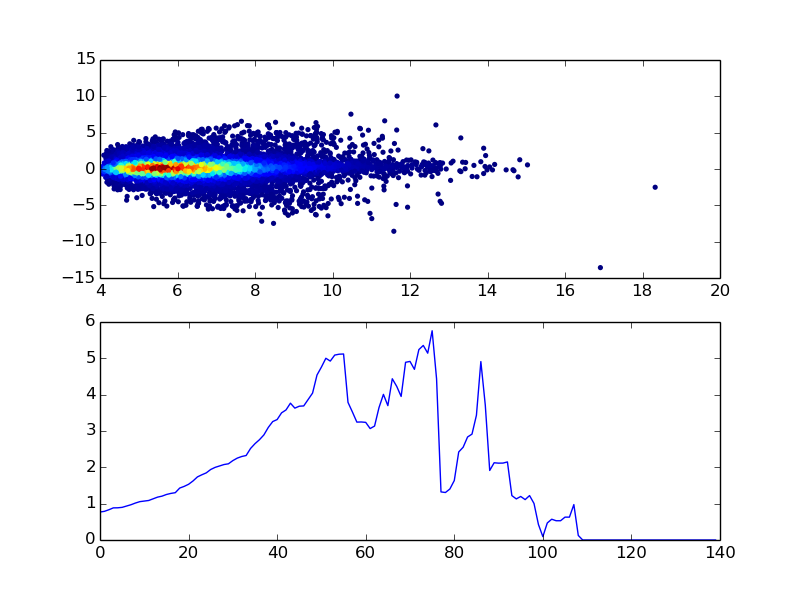
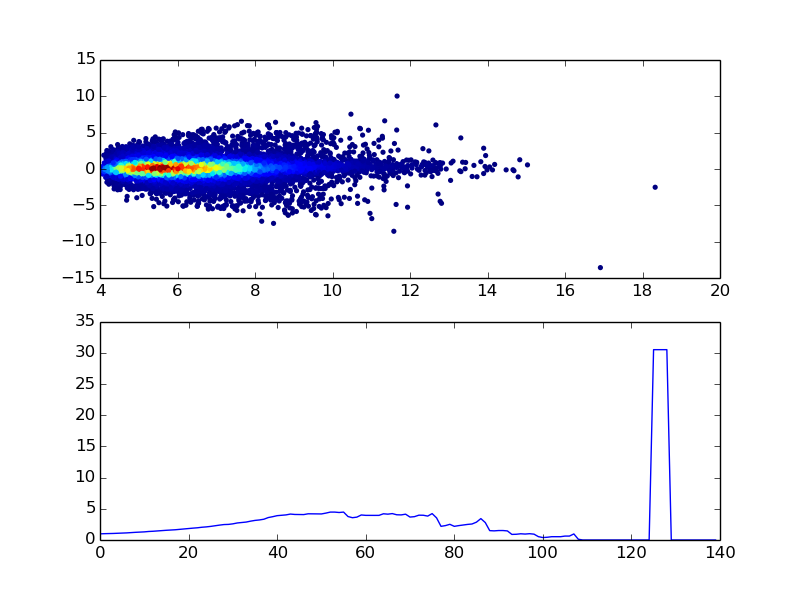
updates

diff --git a/src/tsv_analysis.py b/src/tsv_analysis.py
@@ -240,7 +240,11 @@ def run3(file1,file2):
                 Z[i].append(Y[j])
     X1 = list()
     for item in Z:
-        X1.append(np.var(item))
+        var = list()
+        for val in item:
+            var.append(val**2)
+        if len(var) > 2:
+            X1.append(sum(var)/(len(var)-1))
         
     
     genedict = gene_dict(genes)
